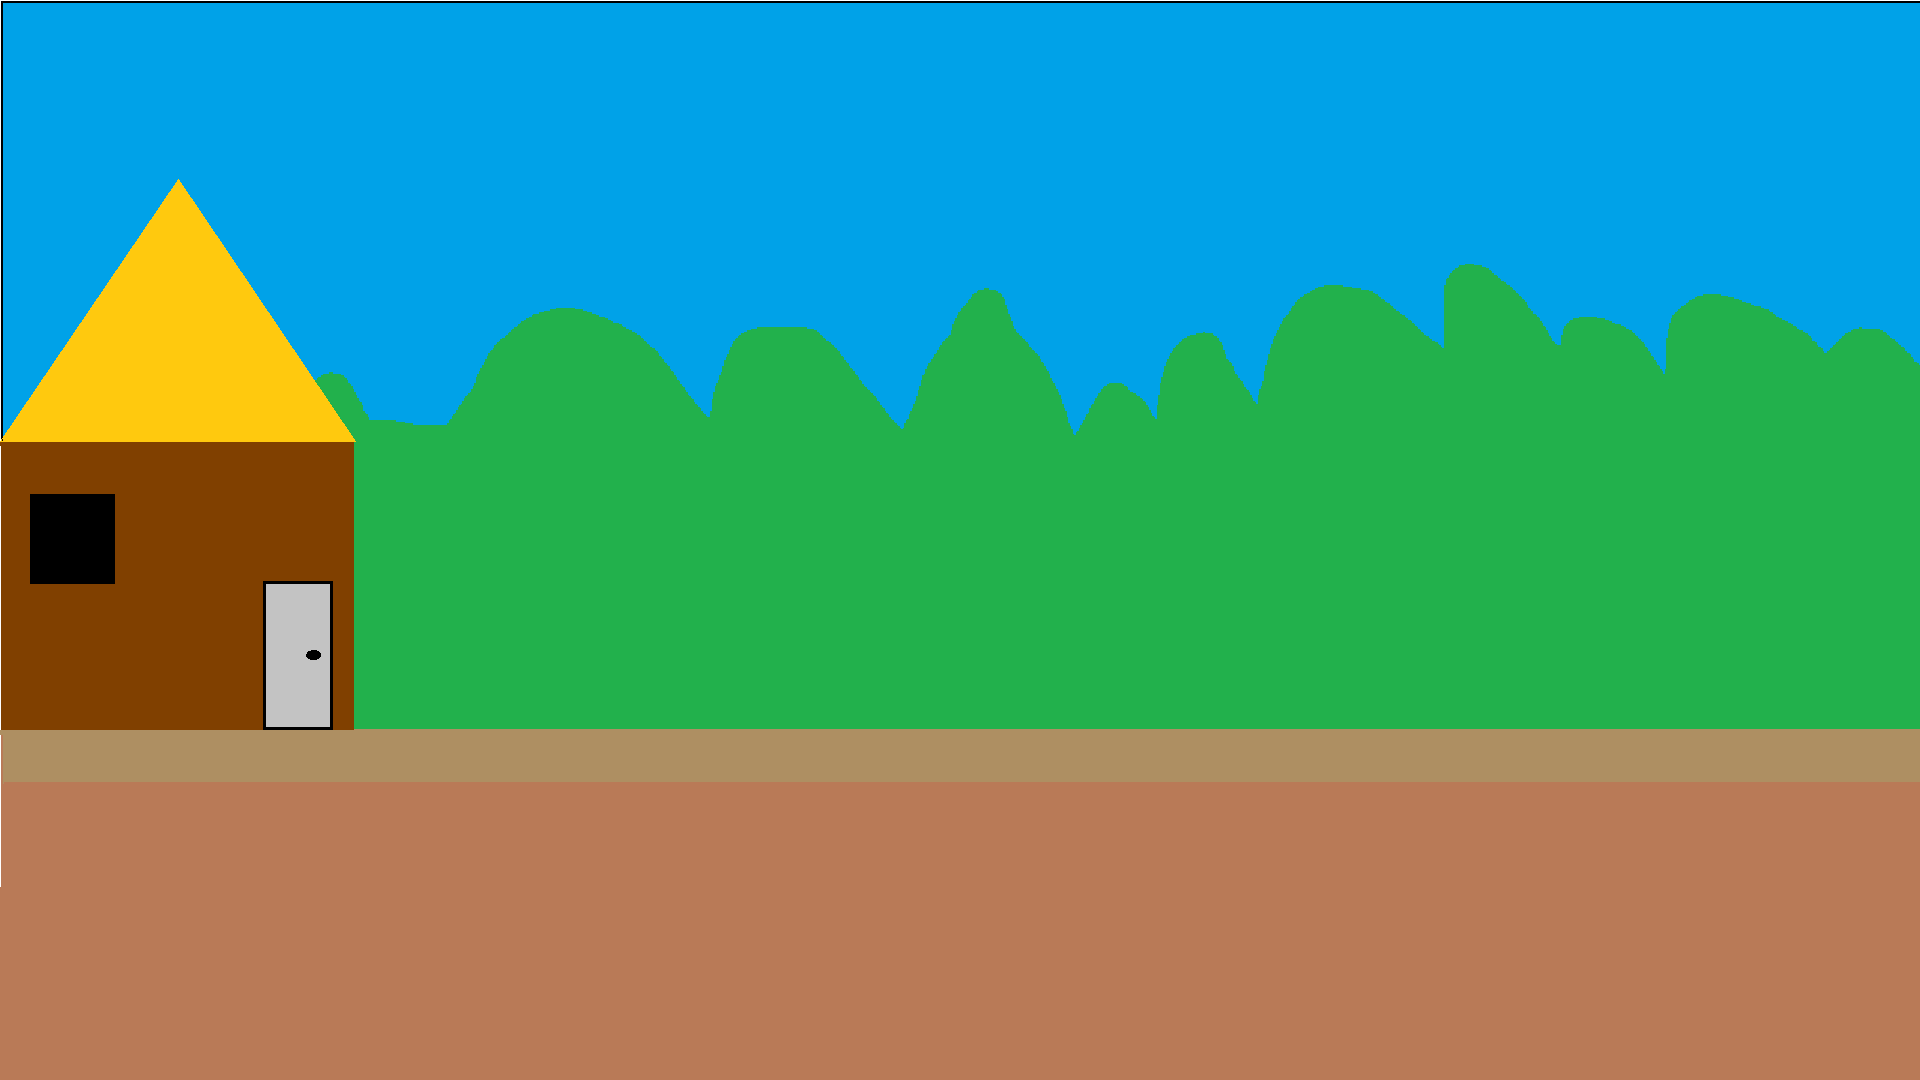
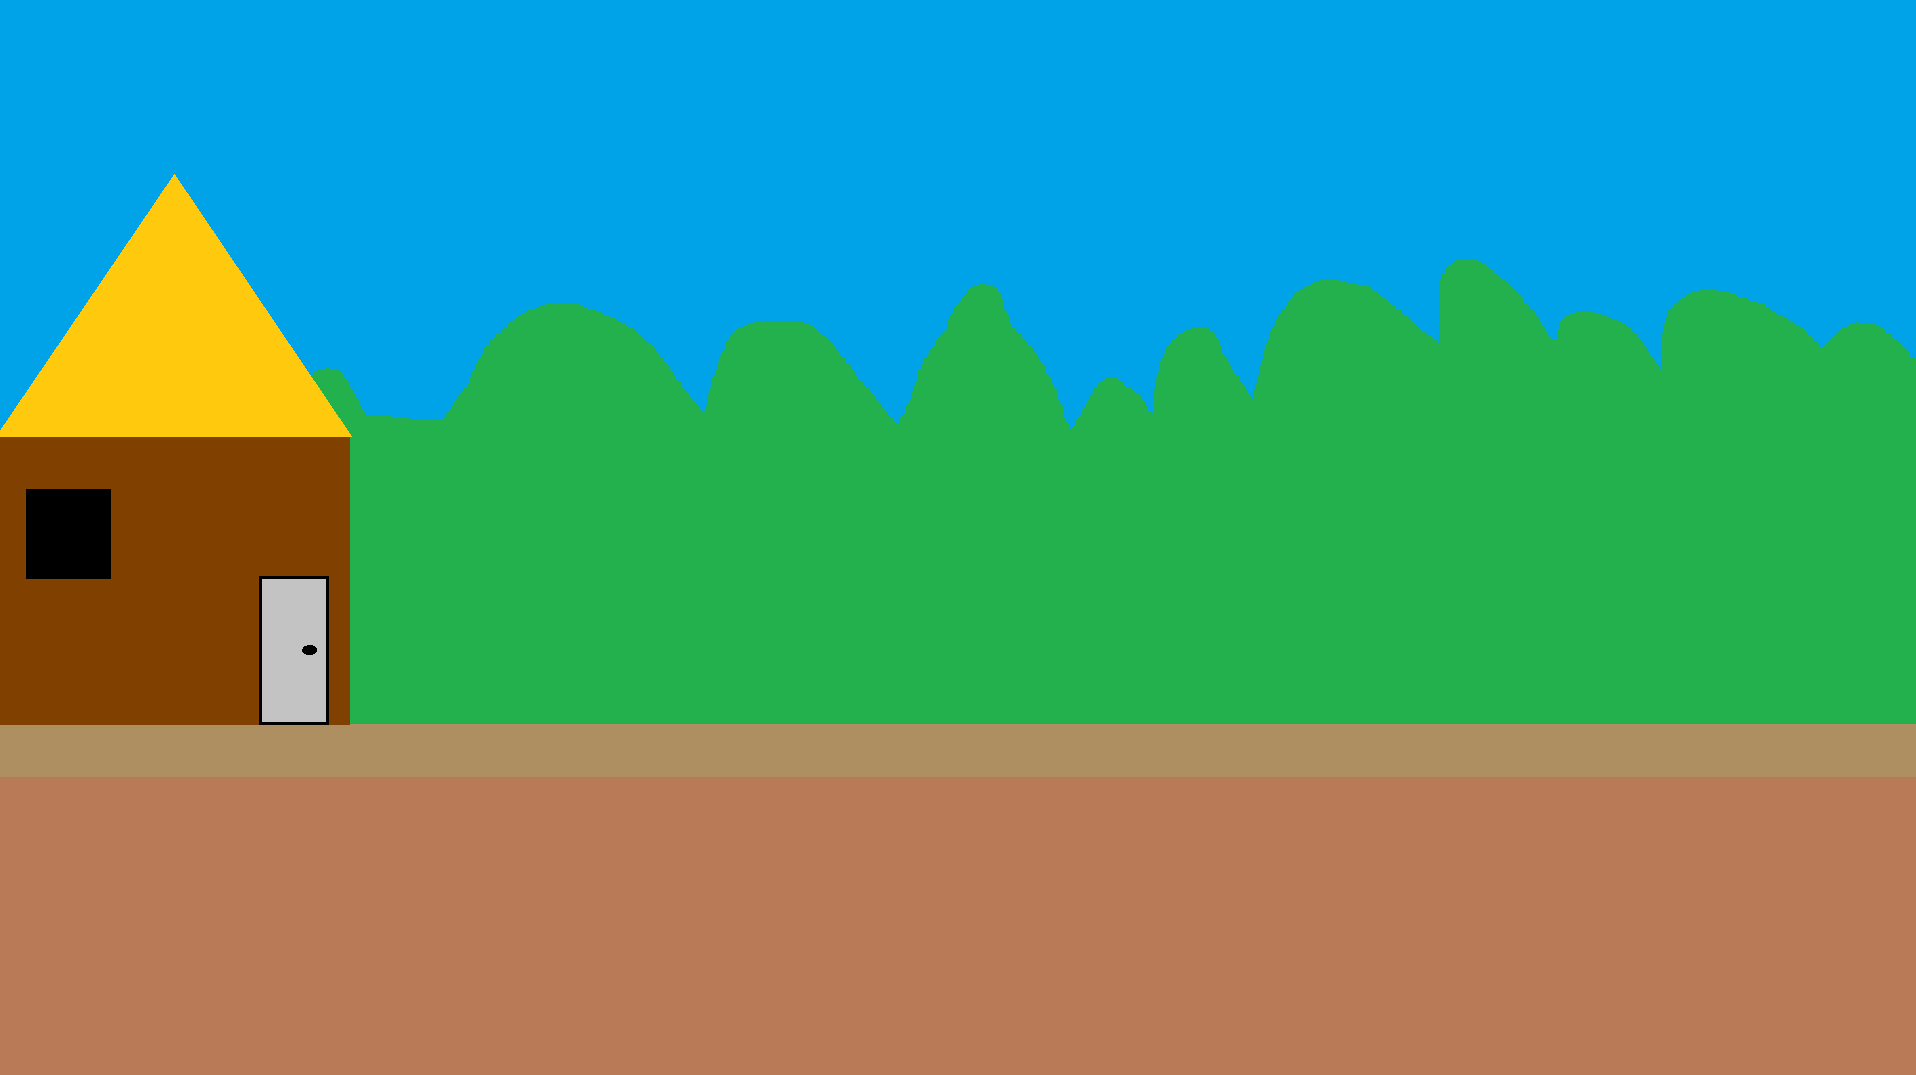
city resize and BV changes

diff --git a/BattleView.py b/BattleView.py
@@ -4,14 +4,14 @@ import pygame
 
 
 class BattleView:
-    def __init__(self, flag, runSuccesful):
+    def __init__(self, flag, runSuccesful,):
         self.flag = flag
         self.runSuccesful = runSuccesful
         self.i=0
 
 
     def print_message(self,screen, font, communicate, comm_center):
-        display_duration = 1
+        display_duration = 0.5
         message = font.render(communicate, True, 'black')
         comm_rect = message.get_rect()
         comm_rect_center = (comm_center)
@@ -31,6 +31,7 @@ class BattleView:
         width = screen.get_width()
         height = screen.get_height()
 
+
         screen.blit(pygame.image.load("Graphics/attack.png").convert(), (width * 0.1, height * 0.8))
         screen.blit(pygame.image.load("Graphics/defend.png").convert(), (width * 0.4, height * 0.8))
         screen.blit(pygame.image.load("Graphics/runAttempt.png").convert(), (width * 0.75, height * 0.8))
@@ -49,6 +50,8 @@ class BattleView:
         screen.blit(playerHpImg, (width * 0.15, height * 0.23))
         screen.blit(enemyHpImg, (width * 0.785, height * 0.23))
 
+
+
         if attack:
             playerChanceToStrike = random.randint(0, player.agility)
             enemyChanceToDodge = random.randint(0, enemy.agility)
@@ -60,14 +63,12 @@ class BattleView:
                 comm_rect_center = (width / 2 * 0.85, height * 0.2)
 
                 self.print_message(screen, font, player_comm, comm_rect_center)
-                self.i=self.i+1
 
             else:
                 player_comm_miss = "Gracz chybil"
                 comm_rect_center_miss = (width / 2 * 0.85, height * 0.2)
 
                 self.print_message(screen, font, player_comm_miss, comm_rect_center_miss)
-                self.i=self.i+1
 
             playerChanceToDodge = random.randint(0, player.agility)
             enemyChanceToStrike = random.randint(0, enemy.agility)
@@ -88,10 +89,7 @@ class BattleView:
                 self.i = self.i + 1
 
         if defend:
-            player.armor = player.armor + 1
-            player.getDamage(enemy.strength)
-            player.armor = player.armor - 1
-
+            player.getDamage(enemy.strength-1)
             comm = "Gracz uzywa obrony"
             comm_rect_center = (width / 2 * 0.85, height * 0.2)
 
